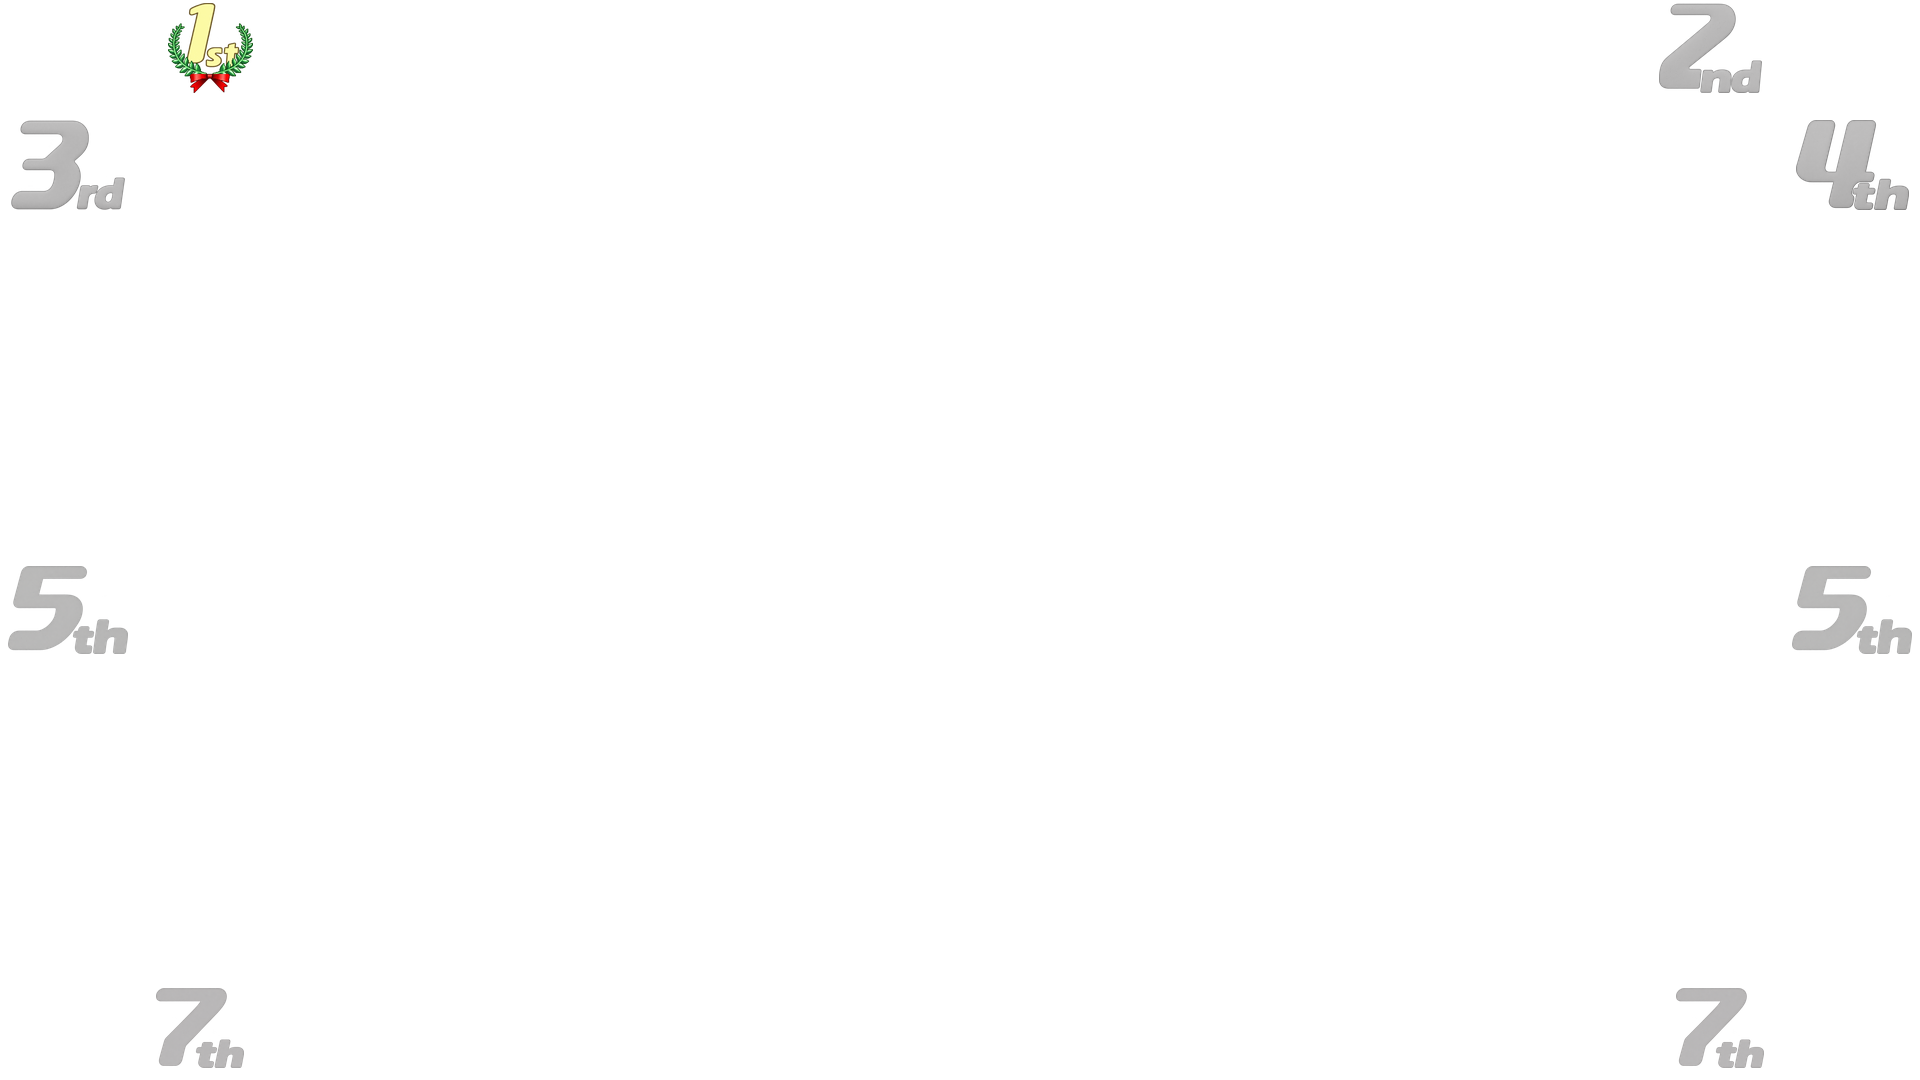
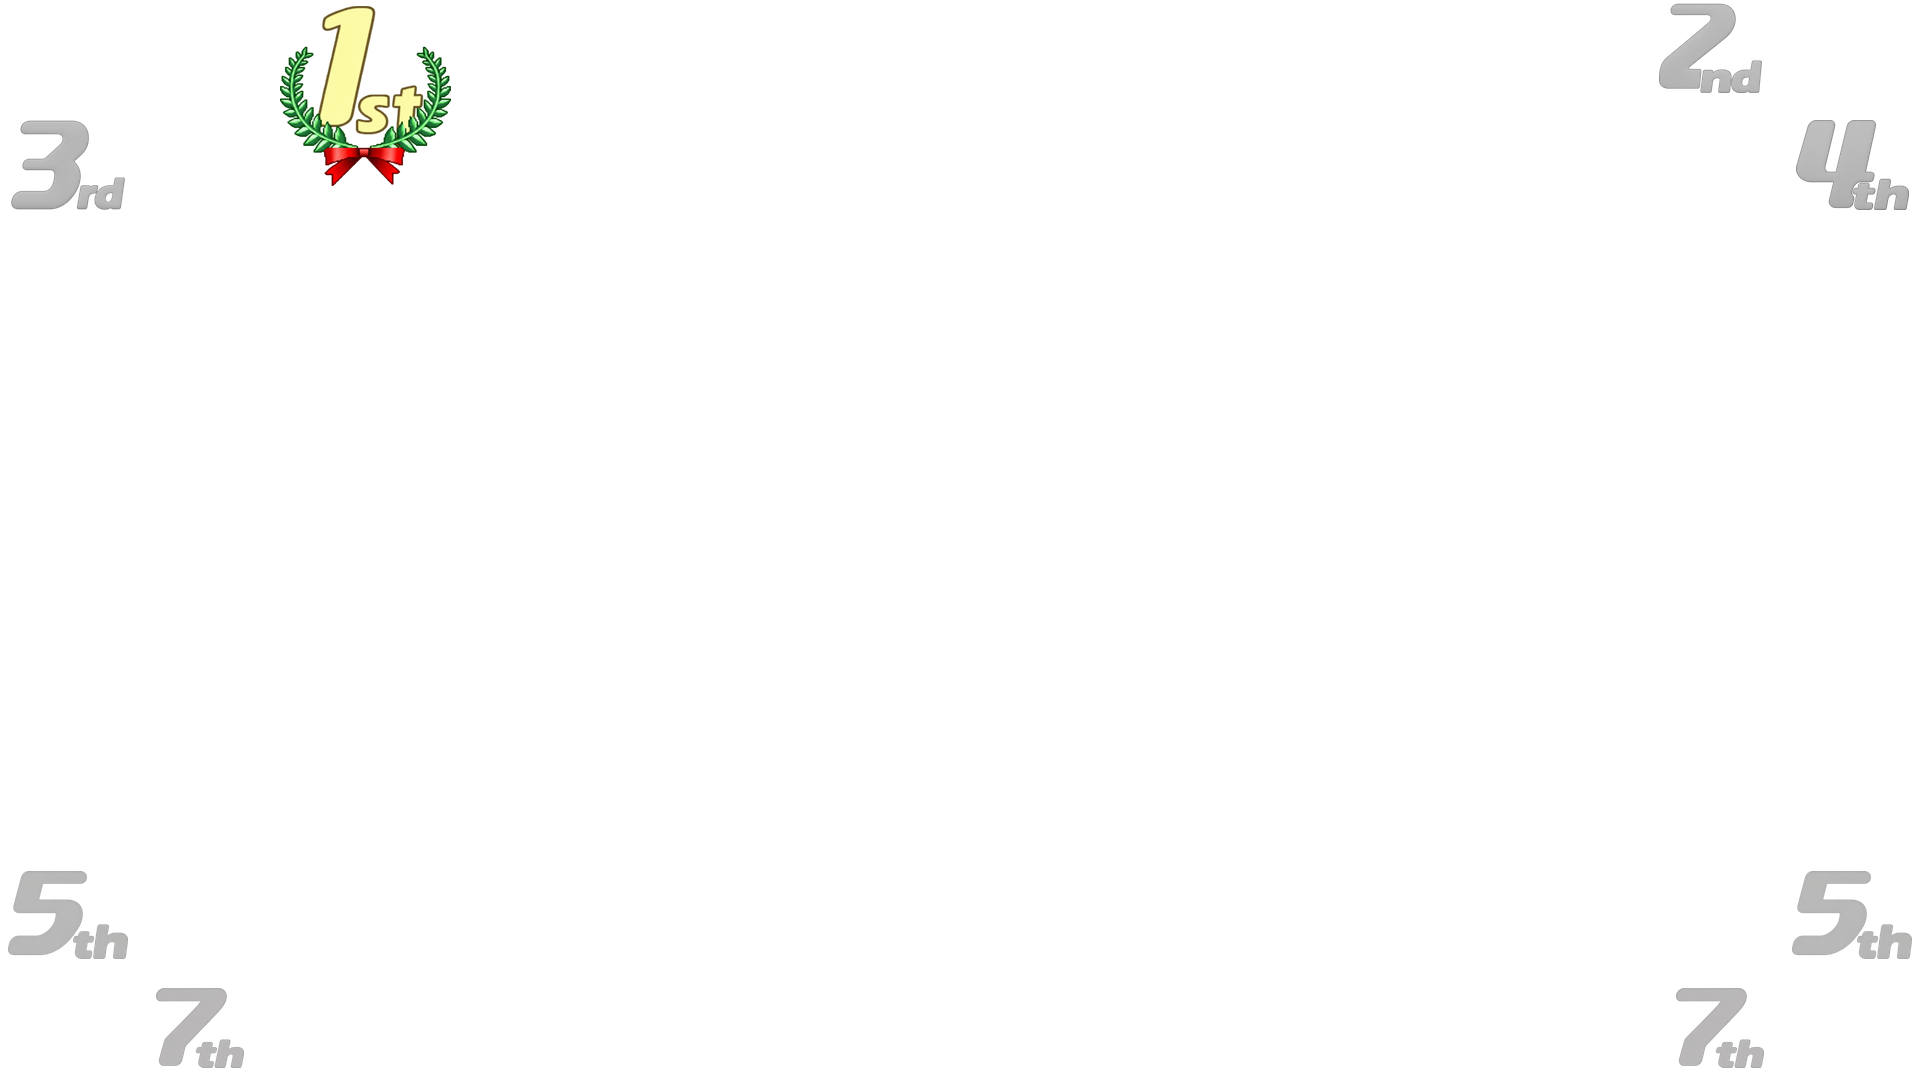
radial format fixing position for names, placements, and seeds

diff --git a/test/radial_test.py b/test/radial_test.py
@@ -8,13 +8,13 @@ import random
 import unittest
 from unittest.mock import patch
 
-from PIL import Image
+from PIL import Image, ImageDraw
 
 from app import app
 from background_builder import BackgroundRequest, PixelRect
 from creation import CreationRequest, TextSettings
 from creation_modes import CreationMode, ModeOptions, ModeSelection
-from DrawPodium import PodiumFont
+from DrawPodium import PodiumFont, _font_to_fit
 from DrawRadial import draw_singles_top_8
 from geometric_formatting_colors import GeometricFormattingColors
 from mode_preferences import FormattingAssetPlacement, ModePreferenceRepository, ModePreferences, PixelPoint
@@ -41,18 +41,39 @@ class RadialTests(unittest.TestCase):
             self.assertEqual(len(section.polygon), 3)
             self.assertIn(center, [(section.destination.left + p.x, section.destination.top + p.y) for p in section.polygon])
         self.assertFalse(any(p.field == "entrant.placement" for p in self.preferences.text_slots))
-        self.assertEqual([p.anchor for p in self.preferences.placement_tags], [PixelPoint(x, y) for x, y in ((210, 48), (1710, 48), (68, 165), (1852, 165), (68, 610), (1852, 610), (200, 1028), (1720, 1028))])
+        self.assertEqual([p.anchor for p in self.preferences.placement_tags], [PixelPoint(x, y) for x, y in ((365, 96), (1710, 48), (68, 165), (1852, 165), (68, 915), (1852, 915), (200, 1028), (1720, 1028))])
         self.assertEqual([p.asset_id for p in self.preferences.placement_tags], ["01st.png", "02nd.png", "03rd.png", "04th.png", "05th.png", "05th.png", "07th.png", "07th.png"])
 
-    def test_enlarged_numbers_have_a_separate_horizontal_region_from_names(self):
+    def test_numbers_and_names_have_separate_outer_corner_regions(self):
         names = [p for p in self.preferences.text_slots if p.field == "entrant.tag"]
-        for slot, (number, name) in enumerate(zip(self.preferences.placement_tags, names), 1):
+        expected_corners = ((936, 14, "ra"), (984, 14, "la"), (18, 518, "ls"), (1902, 518, "rs"), (18, 554, "la"), (1902, 554, "ra"), (936, 1054, "rs"), (984, 1054, "ls"))
+        draw = ImageDraw.Draw(Image.new("RGBA", (1920, 1080)))
+        for slot, (number, name, expected) in enumerate(zip(self.preferences.placement_tags, names, expected_corners), 1):
+            self.assertEqual((name.anchor.x, name.anchor.y, name.pillow_anchor), expected)
             self.assertGreaterEqual(number.max_size.height, 80)
-            left = name.anchor.x if name.pillow_anchor.startswith("l") else name.anchor.x - name.max_width if name.pillow_anchor.startswith("r") else name.anchor.x - name.max_width / 2
-            right = left + name.max_width
+            value = self.entrants[slot - 1].tag
+            font = _font_to_fit(value, name.max_width, name.preferred_size, PodiumFont.TYROWO)
+            left, top, right, bottom = draw.textbbox((name.anchor.x, name.anchor.y), value, font=font, anchor=name.pillow_anchor, stroke_width=2)
             number_left = number.anchor.x - number.max_size.width / 2
             number_right = number.anchor.x + number.max_size.width / 2
-            self.assertTrue(number_right + 15 <= left or right + 15 <= number_left, slot)
+            number_top = number.anchor.y - number.max_size.height / 2
+            number_bottom = number.anchor.y + number.max_size.height / 2
+            self.assertTrue(number_right + 15 <= left or right + 15 <= number_left or number_bottom + 15 <= top or bottom + 15 <= number_top, slot)
+            self.assertGreaterEqual(left, 0)
+            self.assertGreaterEqual(top, 0)
+            self.assertLessEqual(right, 1920)
+            self.assertLessEqual(bottom, 1080)
+
+    def test_seeds_are_deeper_in_the_same_outer_corner_as_their_numbers(self):
+        seeds = [p for p in self.preferences.text_slots if p.field == "entrant.seed"]
+        for number, seed in zip(self.preferences.placement_tags, seeds):
+            corner = (1920 if number.anchor.x > 960 else 0, 1080 if number.anchor.y > 540 else 0)
+            distance = lambda point: (point.x - corner[0]) ** 2 + (point.y - corner[1]) ** 2
+            self.assertLess(distance(seed.anchor), distance(number.anchor))
+            value = f"{self.entrants[seed.entrant_slot - 1].seed}s"
+            font = _font_to_fit(value, seed.max_width, seed.preferred_size, PodiumFont.TYROWO)
+            box = ImageDraw.Draw(Image.new("RGBA", (1920, 1080))).textbbox((seed.anchor.x, seed.anchor.y), value, font=font, anchor=seed.pillow_anchor, stroke_width=2)
+            self.assertTrue(0 <= box[0] < box[2] <= 1920 and 0 <= box[1] < box[3] <= 1080)
 
     def test_radial_primary_background_and_box_border_keep_independent_alpha(self):
         selection = PodiumColorSelection("#12345680", "#010203FF", "#65432140")

diff --git a/generate_radial_doubles_preferences.py b/generate_radial_doubles_preferences.py
@@ -35,25 +35,25 @@ def radial_doubles_preferences() -> ModePreferences:
     # polygons above receive colored borders.
     assets.extend(replace(p, slot_id=p.slot_id.replace("slice_", "portrait_"), asset_id="radial_portrait_slice") for p in singles.formatting_assets if p.asset_id == "radial_slice")
     characters, text, numbers = [], [], []
-    team_labels = ((960, 18, "ma", 1050), (30, 510, "la", 600), (1890, 510, "ra", 600), (960, 1054, "ms", 1050))
+    # Doubles owns its label/art positions independently of Singles refinements.
+    member_names = ((460, 105, "ma"), (1460, 105, "ma"), (145, 195, "la"), (1775, 195, "ra"), (145, 885, "ls"), (1775, 885, "rs"), (460, 975, "ms"), (1460, 975, "ms"))
+    number_anchors = ((325, 96), (68, 165), (1852, 165), (200, 1028))
+    seed_anchors = ((96, 8, "la"), (14, 70, "la"), (1906, 70, "ra"), (96, 1062, "ls"))
+    team_labels = ((960, 18, "ma", 900), (30, 510, "la", 600), (1890, 510, "ra", 600), (960, 1054, "ms", 1050))
     for team, members in enumerate(RADIAL_TEAM_MEMBERS, 1):
         x, y, anchor, width = team_labels[team - 1]
         text.append(TextPlacement(f"team_{team}", "entrant.team_name", PixelPoint(x, y), width, entrant_slot=team, pillow_anchor=anchor, preferred_size=48, z_index=30))
         ordinal = f"{team:02}{ {1: 'st', 2: 'nd', 3: 'rd', 4: 'th'}[team]}.png"
-        numbers.append(replace(singles.placement_tags[members[0] - 1], slot_id=f"number_{team}", asset_id=ordinal))
+        numbers.append(replace(singles.placement_tags[members[0] - 1], slot_id=f"number_{team}", asset_id=ordinal, anchor=PixelPoint(*number_anchors[team - 1])))
         for member, old_slot in enumerate(members, 1):
             characters.append(replace(singles.character_slots[old_slot - 1], entrant_slot=team, member_slot=member))
             label = next(p for p in singles.text_slots if p.entrant_slot == old_slot and p.field == "entrant.tag")
-            if team == 1:
-                label = replace(label, anchor=PixelPoint(label.anchor.x, 112))
-            elif team == 4:
-                label = replace(label, anchor=PixelPoint(label.anchor.x, 975))
+            name_x, name_y, name_anchor = member_names[old_slot - 1]
+            label = replace(label, anchor=PixelPoint(name_x, name_y), pillow_anchor=name_anchor)
             text.append(replace(label, field="member.tag", entrant_slot=team, member_slot=member))
         seed = next(p for p in singles.text_slots if p.entrant_slot == members[0] and p.field == "entrant.seed")
-        if team == 1:
-            seed = replace(seed, anchor=PixelPoint(seed.anchor.x, 172))
-        elif team == 4:
-            seed = replace(seed, anchor=PixelPoint(seed.anchor.x, 920))
+        seed_x, seed_y, seed_anchor = seed_anchors[team - 1]
+        seed = replace(seed, anchor=PixelPoint(seed_x, seed_y), pillow_anchor=seed_anchor)
         text.append(replace(seed, slot_id=f"seed_team_{team}", entrant_slot=team))
     return ModePreferences(
         ModeSelection(CreationMode.RADIAL, ModeOptions(TournamentFormat.DOUBLES, 4)),

diff --git a/generate_radial_preferences.py b/generate_radial_preferences.py
@@ -24,8 +24,10 @@ def radial_preferences() -> ModePreferences:
         ((640, 360), (1280, 720), (640, 720)),
     )
     portraits = ((490, 100), (875, 135), (220, 235), (1035, 225), (235, 465), (1035, 480), (465, 560), (850, 565))
-    numbers = ((210, 48), (1710, 48), (68, 165), (1852, 165), (68, 610), (1852, 610), (200, 1028), (1720, 1028))
-    names = ((450, 36), (1470, 36), (145, 195), (1775, 195), (145, 585), (1775, 585), (460, 1059), (1460, 1059))
+    numbers = ((365, 96), (1710, 48), (68, 165), (1852, 165), (68, 915), (1852, 915), (200, 1028), (1720, 1028))
+    names = ((936, 14), (984, 14), (18, 518), (1902, 518), (18, 554), (1902, 554), (936, 1054), (984, 1054))
+    name_anchors = ("ra", "la", "ls", "rs", "la", "ra", "rs", "ls")
+    seeds = ((96, 8, "la"), (1824, 8, "ra"), (14, 70, "la"), (1906, 70, "ra"), (14, 990, "ls"), (1906, 990, "rs"), (96, 1062, "ls"), (1824, 1062, "rs"))
     assets = []
     characters = []
     text = []
@@ -41,15 +43,16 @@ def radial_preferences() -> ModePreferences:
         ))
         characters.append(CharacterPlacement(f"portrait_{slot}", slot, point(*portraits[slot - 1]), z_index=10))
         name_x, name_y = names[slot - 1]
-        anchor = "la" if slot in (3, 5) else "ra" if slot in (4, 6) else "ms" if slot in (7, 8) else "ma"
+        anchor = name_anchors[slot - 1]
+        seed_x, seed_y, seed_anchor = seeds[slot - 1]
         rank = (1, 2, 3, 4, 5, 5, 7, 7)[slot - 1]
         suffix = {1: "st", 2: "nd", 3: "rd"}.get(rank, "th")
         placement_tags.append(PlacementTagPlacement(
-            f"number_{slot}", f"{rank:02}{suffix}.png", PixelPoint(*numbers[slot - 1]), PixelSize(120, 80 if slot in (7, 8) else 90), z_index=20,
+            f"number_{slot}", f"{rank:02}{suffix}.png", PixelPoint(*numbers[slot - 1]), PixelSize(200, 180) if slot == 1 else PixelSize(120, 80 if slot in (7, 8) else 90), z_index=20,
         ))
         text.extend((
             TextPlacement(f"tag_{slot}", "entrant.tag", PixelPoint(name_x, name_y), 330, entrant_slot=slot, pillow_anchor=anchor, preferred_size=40, z_index=30),
-            TextPlacement(f"seed_{slot}", "entrant.seed", PixelPoint(name_x, name_y - 55 if slot in (7, 8) else name_y + 55), 250, entrant_slot=slot, pillow_anchor=anchor, preferred_size=22, z_index=30),
+            TextPlacement(f"seed_{slot}", "entrant.seed", PixelPoint(seed_x, seed_y), 100, entrant_slot=slot, pillow_anchor=seed_anchor, preferred_size=22, z_index=30),
         ))
     for position, bounds in (
         ("top_left", (460, 355, 820, 445)),

diff --git a/test/radial_doubles_test.py b/test/radial_doubles_test.py
@@ -54,6 +54,22 @@ class RadialDoublesTests(unittest.TestCase):
         for team in range(1, 5):
             self.assertEqual({p.member_slot for p in identities if p.entrant_slot == team}, {1, 2})
 
+    def test_member_names_mirror_and_seeds_use_the_outer_placement_corners(self):
+        names = {(p.entrant_slot, p.member_slot): p for p in self.preferences.text_slots if p.field == "member.tag"}
+        for member in (1, 2):
+            top, bottom = names[(1, member)], names[(4, member)]
+            self.assertEqual(top.anchor.x, bottom.anchor.x)
+            self.assertEqual(top.anchor.y + bottom.anchor.y, 1080)
+        for team in (2, 3):
+            top, bottom = names[(team, 1)], names[(team, 2)]
+            self.assertEqual(top.anchor.x, bottom.anchor.x)
+            self.assertEqual(top.anchor.y + bottom.anchor.y, 1080)
+        seeds = [p for p in self.preferences.text_slots if p.field == "entrant.seed"]
+        for number, seed in zip(self.preferences.placement_tags, seeds):
+            corner = (1920, 0) if number.anchor.x > 960 else (0, 1080) if number.anchor.y > 540 else (0, 0)
+            distance = lambda point: (point.x - corner[0]) ** 2 + (point.y - corner[1]) ** 2
+            self.assertLess(distance(seed.anchor), distance(number.anchor))
+
     def test_internal_teammate_seams_have_no_border_and_share_one_palette(self):
         preferences = replace(self.preferences, text_slots=(), placement_tags=())
         formatted = FormattingAssetRenderer().draw(Image.new("RGBA", (1920, 1080)), preferences, self.colors)

diff --git a/AGENTS.md b/AGENTS.md
@@ -12,8 +12,9 @@
 
 - The initial creation modes are Podium, Eyes, and Squares. Keep all three explicit and allow more modes to be added later.
 - Radial is a fourth mode, initially Singles Top 8 on a 1920x1080 canvas, based on `docs/archive/template_inspiration/radial-by-moxort.png`. Use canonical placement-number artwork with tournament ranks 1, 2, 3, 4, 5, 5, 7, 7, including in previews and downloads. Its eight triangular portrait masks meet at the canvas center and preserve the reference's portrait, number, and player-tag positions. Reuse the Eyes doubles focal/zoom profiles while keeping Radial section geometry and focal destinations in its own serialized preferences. Its centered overlapping header positions are Middle Top, Middle, and Middle Bottom (using the shared bijective assignment keys); always draw the logo before all header and entrant text, including in previews and downloads.
-- Radial placement artwork is enlarged and separated from player names at the outer section corners. Radial palettes expose independent Background Color / Primary (`main_color`) and Border Color / Box (`base_color`) controls; presets apply primary colors to triangle backgrounds and box colors to triangle borders. Apply border colors inside each triangle, including both sides of shared rays, with their selected alpha; previews and downloads use the same palette mapping.
+- Radial placement artwork is enlarged and separated from player names at the outer section corners. First place uses a separately enlarged crest in both Singles and Doubles, with adjacent names kept clear of its larger bounds. Radial palettes expose independent Background Color / Primary (`main_color`) and Border Color / Box (`base_color`) controls; presets apply primary colors to triangle backgrounds and box colors to triangle borders. Apply border colors inside each triangle, including both sides of shared rays, with their selected alpha; previews and downloads use the same palette mapping.
 - Radial Doubles Top 4 merges Singles wedges (1, 2), (3, 5), (4, 6), and (7, 8) into first, second, third, and fourth team blocks. Keep the eight Singles portrait anchors and member crop masks, remove borders within each merged team block, and share one formatting palette per team. Center first-place team names across the top and fourth-place names across the bottom; second and third team names occupy the middle-left and middle-right. Keep both member identities visible.
+- Radial Singles numbers occupy the outer acute corners, and player names sit near each triangle's right-angle corner with matching left/right text anchors. Keep Radial Doubles name, seed, and number calibrations independent so Singles refinements do not move Doubles content. Doubles member names mirror across the horizontal center for each team block; first-place identities use the fourth-place horizontal positions. Both layouts place seeds deeper into the same outer corner as their placement artwork, separately from player names.
 - Select the mode before other creation settings. Keep the mode and its settings, including singles/doubles, included entrant count, and any layout variant, together in one mode-selection value.
 - Podium mode has a required second-level choice between `legacy` podiums and `customizable` podiums. Do not treat this as a cosmetic skin: each style owns separate formatting-asset positions and character/text placements because its podium geometry and heights differ.
 - `creation.py` is the overall composition coordinator. Do not use a generic `main.py` for this responsibility.
